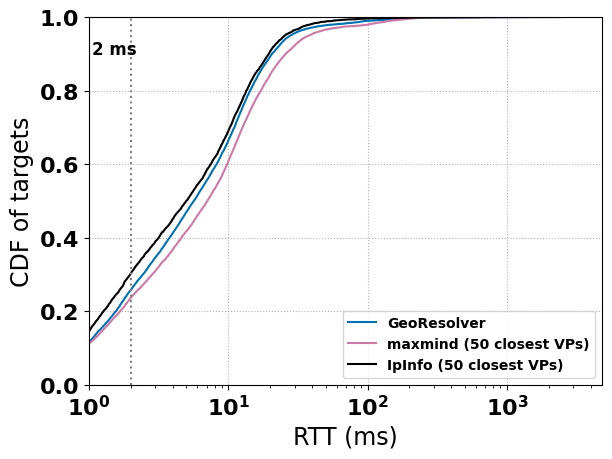
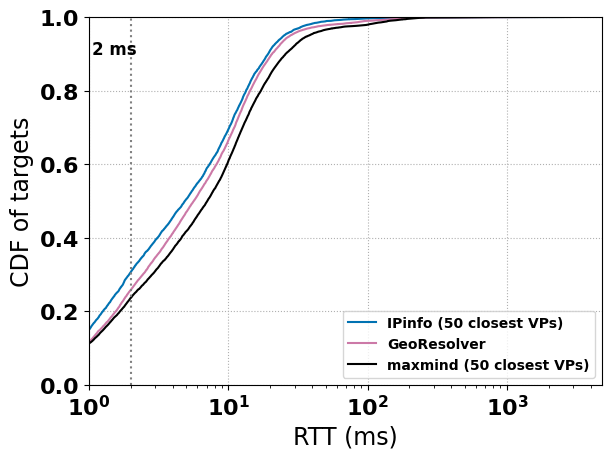
fixed path

Changed region(s): [[0.1242, 0.0305, 0.683, 0.7625], [0.6209, 0.671, 0.9624, 0.8235]]

diff --git a/georesolver/evaluation/private_companies_geoloc.py b/georesolver/evaluation/private_companies_geoloc.py
@@ -17,9 +17,13 @@ from georesolver.clickhouse.queries import (
 )
 from georesolver.prober import RIPEAtlasProber, RIPEAtlasAPI
 from georesolver.agent.insert_process import retrieve_pings
-from georesolver.evaluation.evaluation_plot_functions import plot_multiple_cdf, ecdf
+from georesolver.evaluation.evaluation_plot_functions import (
+    plot_multiple_cdf,
+    ecdf,
+    get_proportion_under,
+)
 from georesolver.common.geoloc import distance
-from georesolver.common.files_utils import load_csv, dump_csv, load_json
+from georesolver.common.files_utils import load_csv, dump_csv
 from georesolver.common.settings import (
     PathSettings,
     ClickhouseSettings,
@@ -135,11 +139,11 @@ async def insert_measurements(
 
         # stop measurement once all measurement are inserted
         all_measurement_ids = set(inserted_ids).union(cached_measurement_ids)
-        if len(all_measurement_ids) >= len(measurement_schedule):
-            logger.info(
-                f"All measurement inserted:: {len(inserted_ids)=}; {len(measurement_schedule)=}"
-            )
-            break
+        # if len(all_measurement_ids) >= len(measurement_schedule):
+        #     logger.info(
+        #         f"All measurement inserted:: {len(inserted_ids)=}; {len(measurement_schedule)=}"
+        #     )
+        #     break
 
         measurement_to_insert = set(stopped_measurement_ids).difference(
             set(inserted_ids)
@@ -161,12 +165,18 @@ async def insert_measurements(
 
         # insert measurement
         batch_size = 1_000
+        step_size = 3
         for i in range(0, len(measurement_to_insert), batch_size):
             logger.info(
                 f"Batch {i // batch_size}/{len(measurement_to_insert) // batch_size}"
             )
             batch_measurement_ids = list(measurement_to_insert)[i : i + batch_size]
-            await retrieve_pings(batch_measurement_ids, output_table)
+            tasks = [
+                retrieve_pings(batch_measurement_ids, output_table)
+                for _ in range(step_size)
+            ]
+
+            await asyncio.gather(*tasks)
 
         cached_measurement_ids.update(measurement_to_insert)
         current_time = datetime.timestamp((datetime.now()) - timedelta(days=1))
@@ -190,12 +200,12 @@ async def run_measurement(
     # in case measurement failed previously
     if check_cache:
         # retrieve previously ongoing measurements
-        # await insert_measurements(
-        #     measurement_schedule,
-        #     probing_tags=["dioptra", measurement_tag],
-        #     output_table=output_table,
-        #     only_once=True,
-        # )
+        await insert_measurements(
+            measurement_schedule,
+            probing_tags=["dioptra", measurement_tag],
+            output_table=output_table,
+            only_once=True,
+        )
 
         logger.info("Filtering measurement schedule")
         logger.info(f"Original schedule: {len(measurement_schedule)} targets")
@@ -221,7 +231,7 @@ async def run_measurement(
     )
 
     await asyncio.gather(
-        prober.main(measurement_schedule),
+        # prober.main(measurement_schedule),
         insert_measurements(
             measurement_schedule,
             probing_tags=["dioptra", measurement_tag],
@@ -236,18 +246,24 @@ def latency_eval(input_tables: list[tuple[str, str]]) -> None:
     """compare shortest ping obtained with each vp selection methodology"""
     cdfs = []
     for input_table, label in input_tables:
+        under_2ms = []
         logger.info(f"Retrieving pings for table:: {input_table}")
         pings_per_target = get_pings_per_target(input_table)
 
         # for each target, get shortest ping
         shortest_pings = []
         for _, pings in pings_per_target.items():
-            shortest_ping = min(pings, key=lambda x: x[-1])
+            _, shortest_ping_rtt = min(pings, key=lambda x: x[-1])
 
-            shortest_pings.append(shortest_ping[-1])
+            shortest_pings.append(shortest_ping_rtt)
+            if shortest_ping_rtt < 2:
+                under_2ms.append(shortest_ping_rtt)
 
         x, y = ecdf(shortest_pings)
         cdfs.append((x, y, label))
+
+        frac_under2ms = get_proportion_under(x, y, 2)
+        logger.info(f"{input_table=}; {len(under_2ms)=}; {frac_under2ms=}")
 
     plot_multiple_cdf(
         cdfs=cdfs,
@@ -267,7 +283,7 @@ def main() -> None:
     """
     do_maxmind_measurements: bool = False
     do_ip_info_measurements: bool = True
-    do_latency_eval: bool = False
+    do_latency_eval: bool = True
 
     sample_targets = load_sample_targets(
         path_settings.DATASET / "itdk/itdk_responsive_router_interface_parsed.csv",
@@ -297,13 +313,13 @@ def main() -> None:
             sample_targets,
             path_settings.DATASET / "geoloc_db/ipinfo_2025-04-10.snapshot",
         )
-        measurement_schedule = get_measurement_schedule(
-            geoloc_per_target=geoloc_per_target,
-            vps=vps,
-        )
+        # measurement_schedule = get_measurement_schedule(
+        #     geoloc_per_target=geoloc_per_target,
+        #     vps=vps,
+        # )
         asyncio.run(
             run_measurement(
-                measurement_schedule,
+                [],
                 "ipinfo-closest-vp-seed-new",
                 "ipinfo_closest_vp_seed_pings",
                 check_cache=True,
@@ -313,9 +329,9 @@ def main() -> None:
     if do_latency_eval:
         latency_eval(
             [
+                ("ipinfo_closest_vp_seed_pings", "IPinfo (50 closest VPs)"),
                 ("georesolver_itdk_sample_ping", "GeoResolver"),
                 ("maxmind_closest_vp_seed_pings", "maxmind (50 closest VPs)"),
-                ("ipinfo_closest_vp_seed_pings", "IpInfo (50 closest VPs)"),
             ]
         )
 

diff --git a/georesolver/georesolver.py b/georesolver/georesolver.py
@@ -46,7 +46,7 @@ def check_config(config_path: Path) -> None:
     """check the validity of the input config"""
     experiment_config = load_json(config_path, exit_on_failure=True)
 
-    # mandatory parameters
+    # requested parameters
     assert "target_file" in experiment_config
     assert "hostname_file" in experiment_config
     assert "experiment_uuid" in experiment_config
@@ -80,6 +80,8 @@ def create_agent_path(agent_host: str, experiment_path: Path) -> Path:
     agent_dir = experiment_path / agent_host
     if not agent_dir.is_dir():
         agent_dir.mkdir(parents=True, exist_ok=True)
+
+    logger.info(f"local agent dir at:: {agent_dir}")
 
     return agent_dir
 
@@ -165,6 +167,7 @@ def agent_start(
 
     logger.debug("Docker cmd::")
     print_docker_cmd(cmd)
+    print(cmd)
 
 
 def check_local_dir(
@@ -355,10 +358,18 @@ def run_remote_agent(
     upload_target_files(user, host, gateway, local_dir, remote_dir, target_files)
 
     # pull docker image
-    pull_docker_image()
+    pull_docker_image(user, host, gateway)
 
     # start docker container with params
-    agent_start()
+    agent_start(
+        user,
+        host,
+        local_dir,
+        remote_dir,
+        agent_config_path,
+        container_name,
+        gateway,
+    )
 
     # monitor container execution
     # TODO: too complex for experimental prototype, left for future dev
@@ -396,12 +407,11 @@ def run_georesolver(config_path: Path) -> None:
         dump_csv(agent_targets, agent_dir / "targets.csv")
         copy_to(config["hostname_file"], agent_dir)
 
-        # TOOD: run parrallel
         run_remote_agent(
             agent_uuid=agent_definition["agent_uuid"],
             user=agent_definition["user"],
             host=agent_definition["host"],
-            local_dir=agent_dir,
+            local_dir=agent_dir.resolve(),
             remote_dir=agent_definition["remote_dir"],
             target_file=agent_dir / "targets.csv",
             hostname_file=agent_dir / Path(config["hostname_file"]).name,

diff --git a/georesolver/zdns/zdns.py b/georesolver/zdns/zdns.py
@@ -95,7 +95,6 @@ class ZDNS:
         query_results = []
 
         zdns_cmd = self.get_zdns_cmd(subnet, hostname)
-        print(zdns_cmd)
 
         ps = await asyncio.subprocess.create_subprocess_shell(
             zdns_cmd, stdout=asyncio.subprocess.PIPE, stderr=asyncio.subprocess.PIPE
@@ -157,7 +156,6 @@ class ZDNS:
             return None
 
         for answer in answers:
-            print(f"{answer}")
             if answer["type"] != "A" and not self.request_type == "AAAA":
                 if self.iterative and answer["type"] == "CNAME":
                     cname = answer["answer"]
@@ -177,7 +175,6 @@ class ZDNS:
                 subnet_addr = get_prefix_from_ip(subnet)
                 answer_subnet = get_prefix_from_ip(answer)
             elif is_valid_ipv6(answer) and self.request_type == "AAAA":
-                print("hello")
                 subnet_addr = get_prefix_from_ip(subnet, ipv6=True)
                 answer_subnet = get_prefix_from_ip(answer, ipv6=True)
             else:

diff --git a/georesolver/common/settings.py b/georesolver/common/settings.py
@@ -43,7 +43,7 @@ class PathSettings(BaseSettings):
 
     # Static files from other organization
     STATIC_FILES: Path = DATASET / "static_files/"
-    RIB_TABLE: Path = USER_DATASETS / "rib_table.dat"
+    RIB_TABLE: Path = STATIC_FILES / "rib_table.dat"
     USER_HITLIST_FILE: Path = STATIC_FILES / "ipv4_hitlist.json"
     ANYCATCH_DATA: Path = STATIC_FILES / "anycatch-v4-prefixes.csv"
     VERPOELOFTER: Path = STATIC_FILES / "responsive_addresses_per_subnet.fsdb"

diff --git a/georesolver/evaluation/ipv6.py b/georesolver/evaluation/ipv6.py
@@ -124,7 +124,7 @@ def select_hostnames() -> list[str]:
     """select hostnames that support IPv6"""
     host_addr = get_host_ip_addr(ipv6=True)
     host_subnet = get_prefix_from_ip(host_addr, ipv6=True)
-    ecs_hostnames_path = path_settings.HOSTNAMES_GEORESOLVER
+    ecs_hostnames_path = path_settings.HOSTNAME_FILES / "all_ecs_selected_hostnames.csv"
 
     asyncio.run(
         run_dns_mapping(

diff --git a/georesolver/scripts/local_docker_demo.py b/georesolver/scripts/local_docker_demo.py
@@ -34,9 +34,7 @@ def main_demo() -> None:
 
     logger.info(f"File available at:: {DEMO_TARGET_FILE}")
 
-    run_georesolver(CONFIG_PATH)
-    for agent in agents:
-        agent.run()
+    run_georesolver(CONFIG_PATH.resolve())
 
 
 if __name__ == "__main__":
